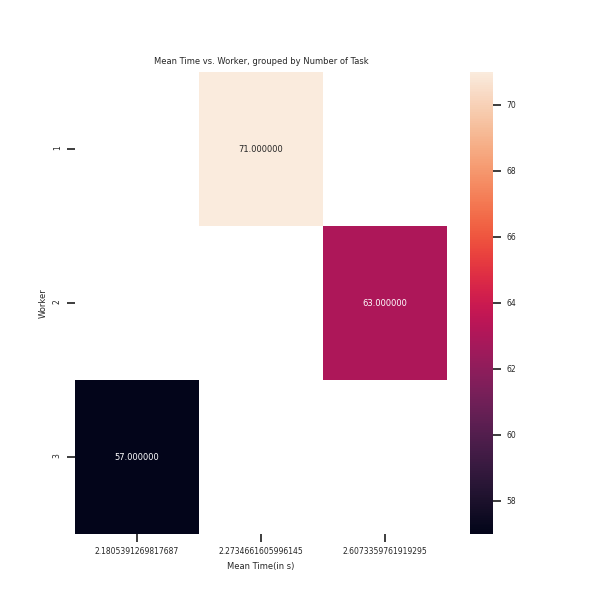
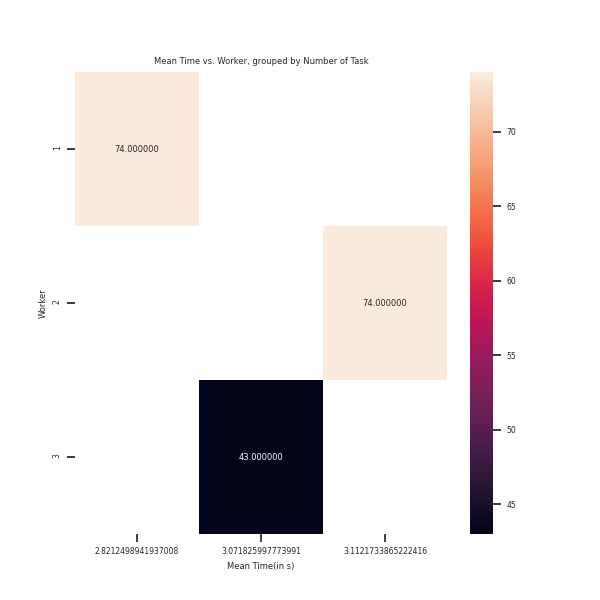
changed RR

diff --git a/Worker2.py b/Worker2.py
@@ -10,6 +10,8 @@ import time
 executionList = []
 executionListLock = threading.Lock()
 
+#executionDuration = {}
+#executionDurationLock = threading.Lock()
 def listenRequest():
 	while 1:
 		requestSocket = socket.socket(socket.AF_INET,socket.SOCK_STREAM)
@@ -19,6 +21,10 @@ def listenRequest():
 		data_loaded = json.loads(data)
 		data_loaded['start_time'] = time.time()
 		data_loaded['end_time'] = data_loaded['start_time'] +data_loaded['duration']
+		#executionDurationLock.acquire()
+		#executionDuration[data_loaded['task_id']] = data_loaded['duration']
+		#executionDurationLock.release()
+		#time.sleep(data_loaded['duration'])
 		executionListLock.acquire()
 		executionList.append(data_loaded)
 		executionListLock.release()
@@ -40,13 +46,18 @@ def executeNotify():
 			currentTime = time.time()
 			if currentTime>=task['end_time']:
 				task['end_time'] = currentTime
-
 				executionListLock.acquire()
 				executionList.remove(task)
 				executionListLock.release()
-
 				executionDetails(task)
-		#time.sleep(1)
+			#executionDurationLock.acquire()
+			#executionDuration[task['task_id']] -=1
+			#if executionDuration[task['task_id']]==0:
+			#	executionDurationLock.release()
+			#else:
+			#	executionDurationLock.release()
+				#task['duration']-=1	
+		time.sleep(1)
 
 # listen to request
 thread1 = threading.Thread(target=listenRequest)

diff --git a/Master2.py b/Master2.py
@@ -163,6 +163,7 @@ def roundRobin2(chosenTask):
 		copyConfig = copy.deepcopy(currentConfiguration['workers'])
 		copyConfig.sort(key=lambda x:x['worker_id'])
 		workerId = copyConfig[workerNumber]['worker_id']
+	configurationLock.release()
 	#currentConfiguration['workers'][workerNumber]['slots']-=1
 	#print(currentConfiguration)
 	#print("\n")
@@ -172,6 +173,8 @@ def roundRobin2(chosenTask):
 		if(currentConfiguration['workers'][i]['worker_id']==workerId):
 			indexNumber=i
 			break
+
+	configurationLock.acquire()
 	currentConfiguration['workers'][indexNumber]['slots']-=1
 	#print(currentConfiguration)
 	#print("\n")
@@ -290,7 +293,7 @@ def scanSchedule():
 				randomScheduling(chosenTask)
 				pass
 			elif findTask and scheduleMethod == 'Round':
-				roundRobin2(chosenTask)
+				roundRobin(chosenTask)
 				pass
 			elif findTask and scheduleMethod == 'Least':
 				leastLoaded(chosenTask)
@@ -348,7 +351,9 @@ def recieveUpdates():
 				finishReducerLock.release()
 		#print(taskLogs,' that was TASK_LOG')
 		print("\n----*******----")
+		#configurationLock.acquire()
 		print(currentConfiguration,' is current configuration')
+		#configurationLock.release()
 		print("----*******----\n")
 
 thread1 = threading.Thread(target = acceptRequest)
